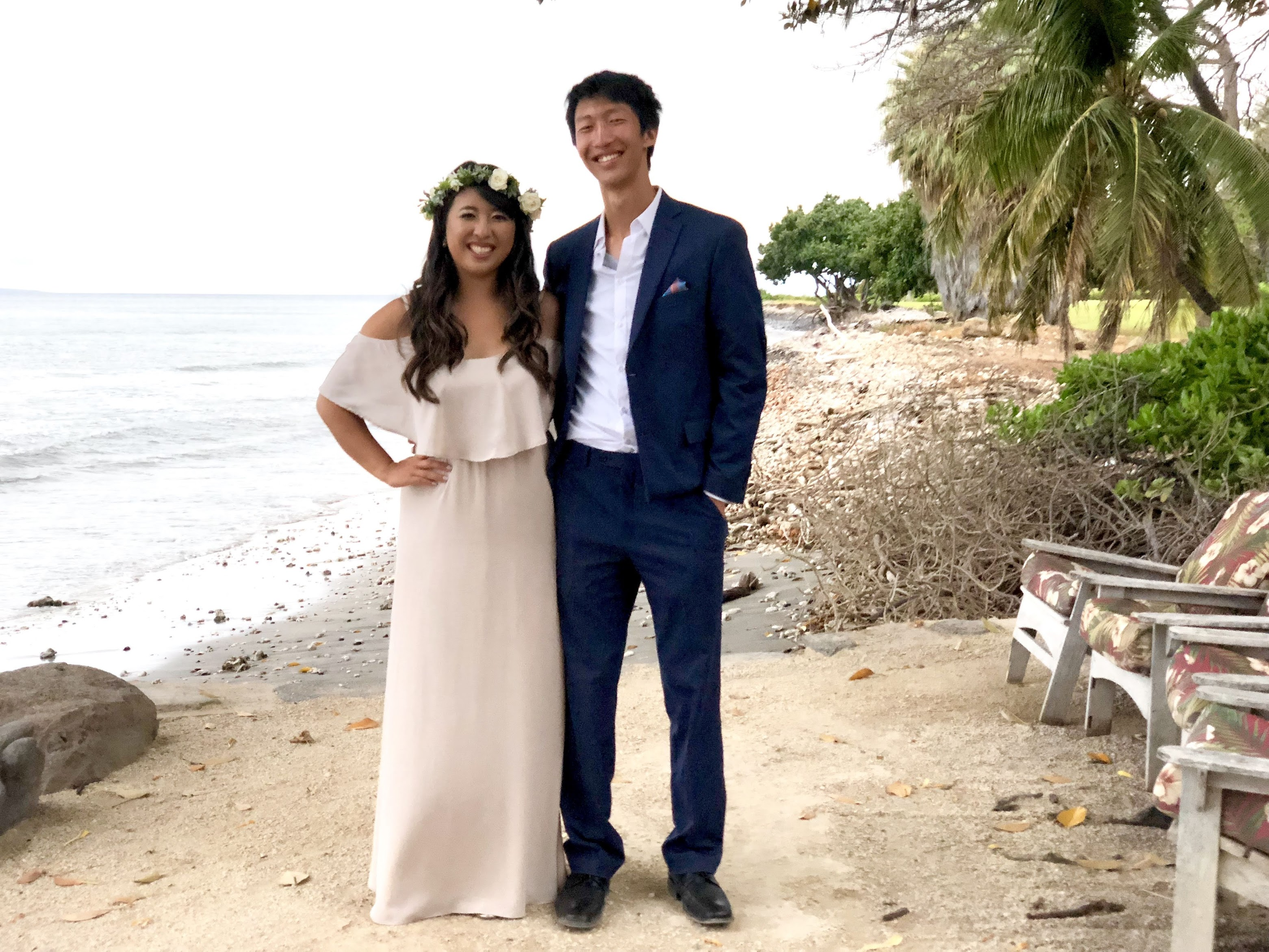
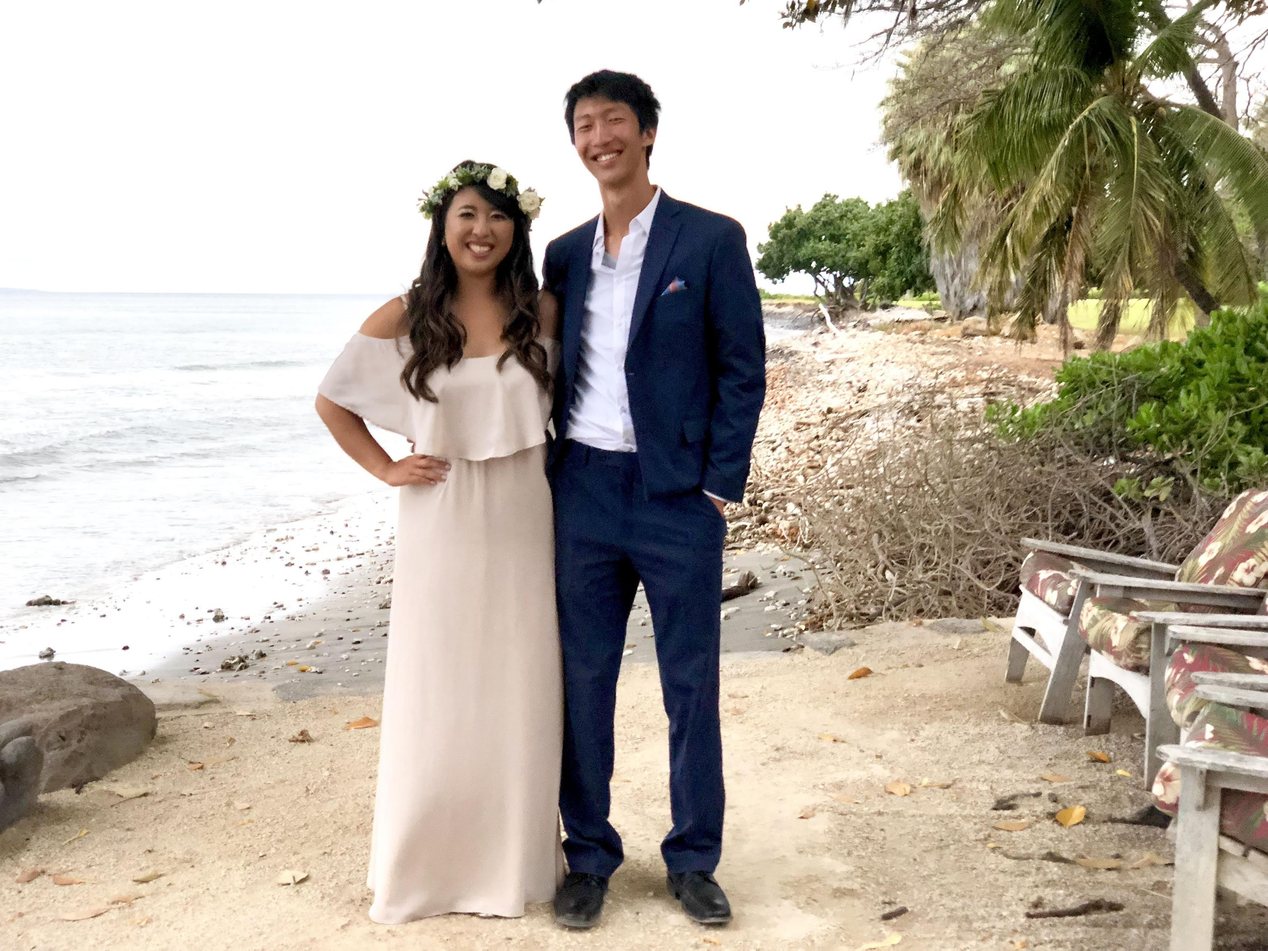
auto crop to 4:3

diff --git a/pages/story/update.py b/pages/story/update.py
@@ -7,6 +7,7 @@ import urllib.request
 from googleapiclient.discovery import build
 from google_auth_oauthlib.flow import InstalledAppFlow
 from google.auth.transport.requests import Request
+from PIL import Image
 
 # If modifying these scopes, delete the file token.pickle.
 SCOPES = ['https://www.googleapis.com/auth/spreadsheets.readonly']
@@ -70,6 +71,12 @@ def main():
         p = gallery_path+title+'.jpg'
         if not os.path.exists(p):
             urllib.request.urlretrieve(url, p)
+        im = Image.open(p)
+        w, h = im.size
+        if w/h > 4/3:
+            hadjust = h % 3
+            im1 = im.crop((w-4/3*(h-hadjust), hadjust, w, h))
+            im1.save(p)
         return 'pages/story/'+p
 
     for c in CATEGORIES:
